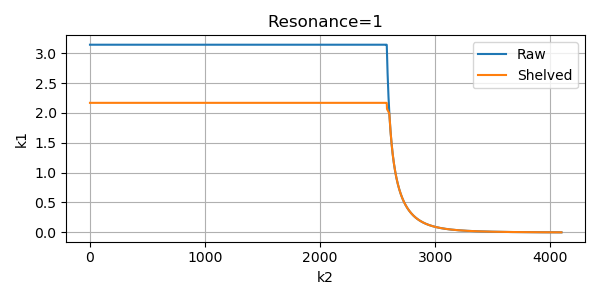
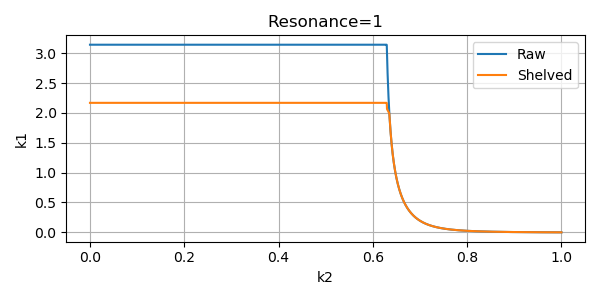
Fix plot in doublefilter

diff --git a/doublefilter/demo/dent.py b/doublefilter/demo/dent.py
@@ -54,8 +54,8 @@ def plotK1Curve(tuningFunc):
 
     pyplot.figure(figsize=(6, 3))
     pyplot.title(f"Resonance={reso}")
-    pyplot.plot(k1Raw, label="Raw")
-    pyplot.plot(k1Shelved, label="Shelved")
+    pyplot.plot(k2, k1Raw, label="Raw")
+    pyplot.plot(k2, k1Shelved, label="Shelved")
     pyplot.xlabel("k2")
     pyplot.ylabel("k1")
     pyplot.grid()
